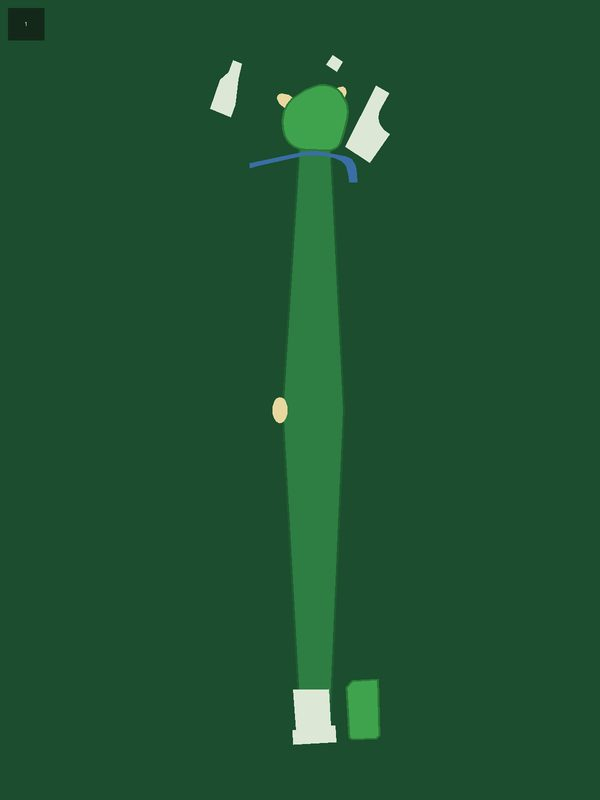
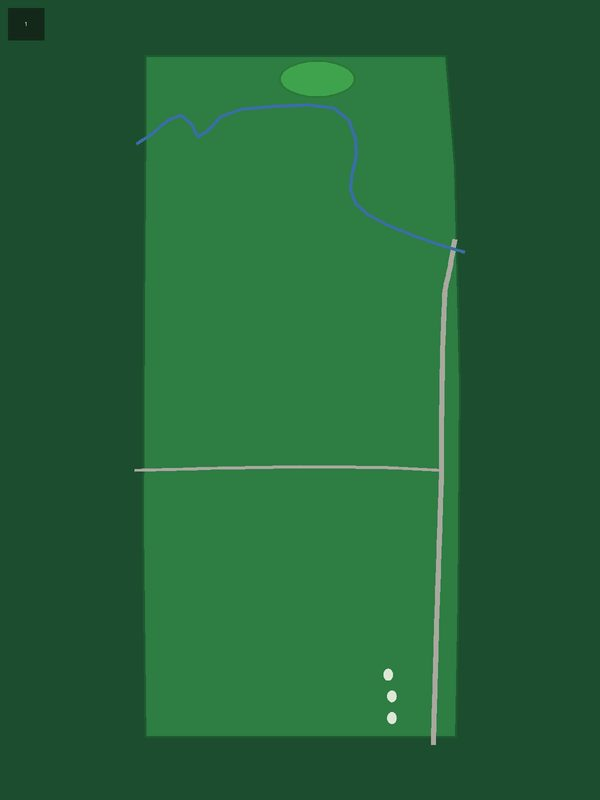
Re-trace St Andrews Old Course hole 1 from stroke-saver screenshot
The OSM-derived map was wrong: missing Granny Clark's Wynd (road crossing
the fairway) and the Swilcan Burn shape. Hand-traced from Cayden's
screenshot: full burn S-curve in front of the green, Wynd crossing ~60% up,
right-side road, wide fairway, tee boxes bottom-right. No bunkers invented.
Mask uses exact palette (roads map to rough); manifest tee/pin corrected,
source -> traced.

diff --git a/app/lib/widgets/hole_map_manifest.dart b/app/lib/widgets/hole_map_manifest.dart
@@ -290,7 +290,7 @@ const holeMapManifest = <String, Map<int, HoleMapAsset>>{
     18: HoleMapAsset(par: 4, map: 'assets/hole_maps/ocean-course-kiawah-island/18.jpg', mask: 'assets/hole_maps/ocean-course-kiawah-island/18_mask.png', tee: Offset(0.586, 0.814), pin: Offset(0.572, 0.109), source: 'osm'),
   },
   'The Old Course at St Andrews': {
-    1: HoleMapAsset(par: 4, map: 'assets/hole_maps/old-course-st-andrews/1.jpg', mask: 'assets/hole_maps/old-course-st-andrews/1_mask.png', tee: Offset(0.526, 0.925), pin: Offset(0.527, 0.149), source: 'mixed'),
+    1: HoleMapAsset(par: 4, map: 'assets/hole_maps/old-course-st-andrews/1.jpg', mask: 'assets/hole_maps/old-course-st-andrews/1_mask.png', tee: Offset(0.653, 0.898), pin: Offset(0.529, 0.099), source: 'traced'),
     2: HoleMapAsset(par: 4, map: 'assets/hole_maps/old-course-st-andrews/2.jpg', mask: 'assets/hole_maps/old-course-st-andrews/2_mask.png', tee: Offset(0.450, 0.658), pin: Offset(0.445, 0.335), source: 'osm'),
     3: HoleMapAsset(par: 4, map: 'assets/hole_maps/old-course-st-andrews/3.jpg', mask: 'assets/hole_maps/old-course-st-andrews/3_mask.png', tee: Offset(0.541, 0.920), pin: Offset(0.520, 0.166), source: 'mixed'),
     4: HoleMapAsset(par: 4, map: 'assets/hole_maps/old-course-st-andrews/4.jpg', mask: 'assets/hole_maps/old-course-st-andrews/4_mask.png', tee: Offset(0.472, 0.839), pin: Offset(0.472, 0.095), source: 'mixed'),
